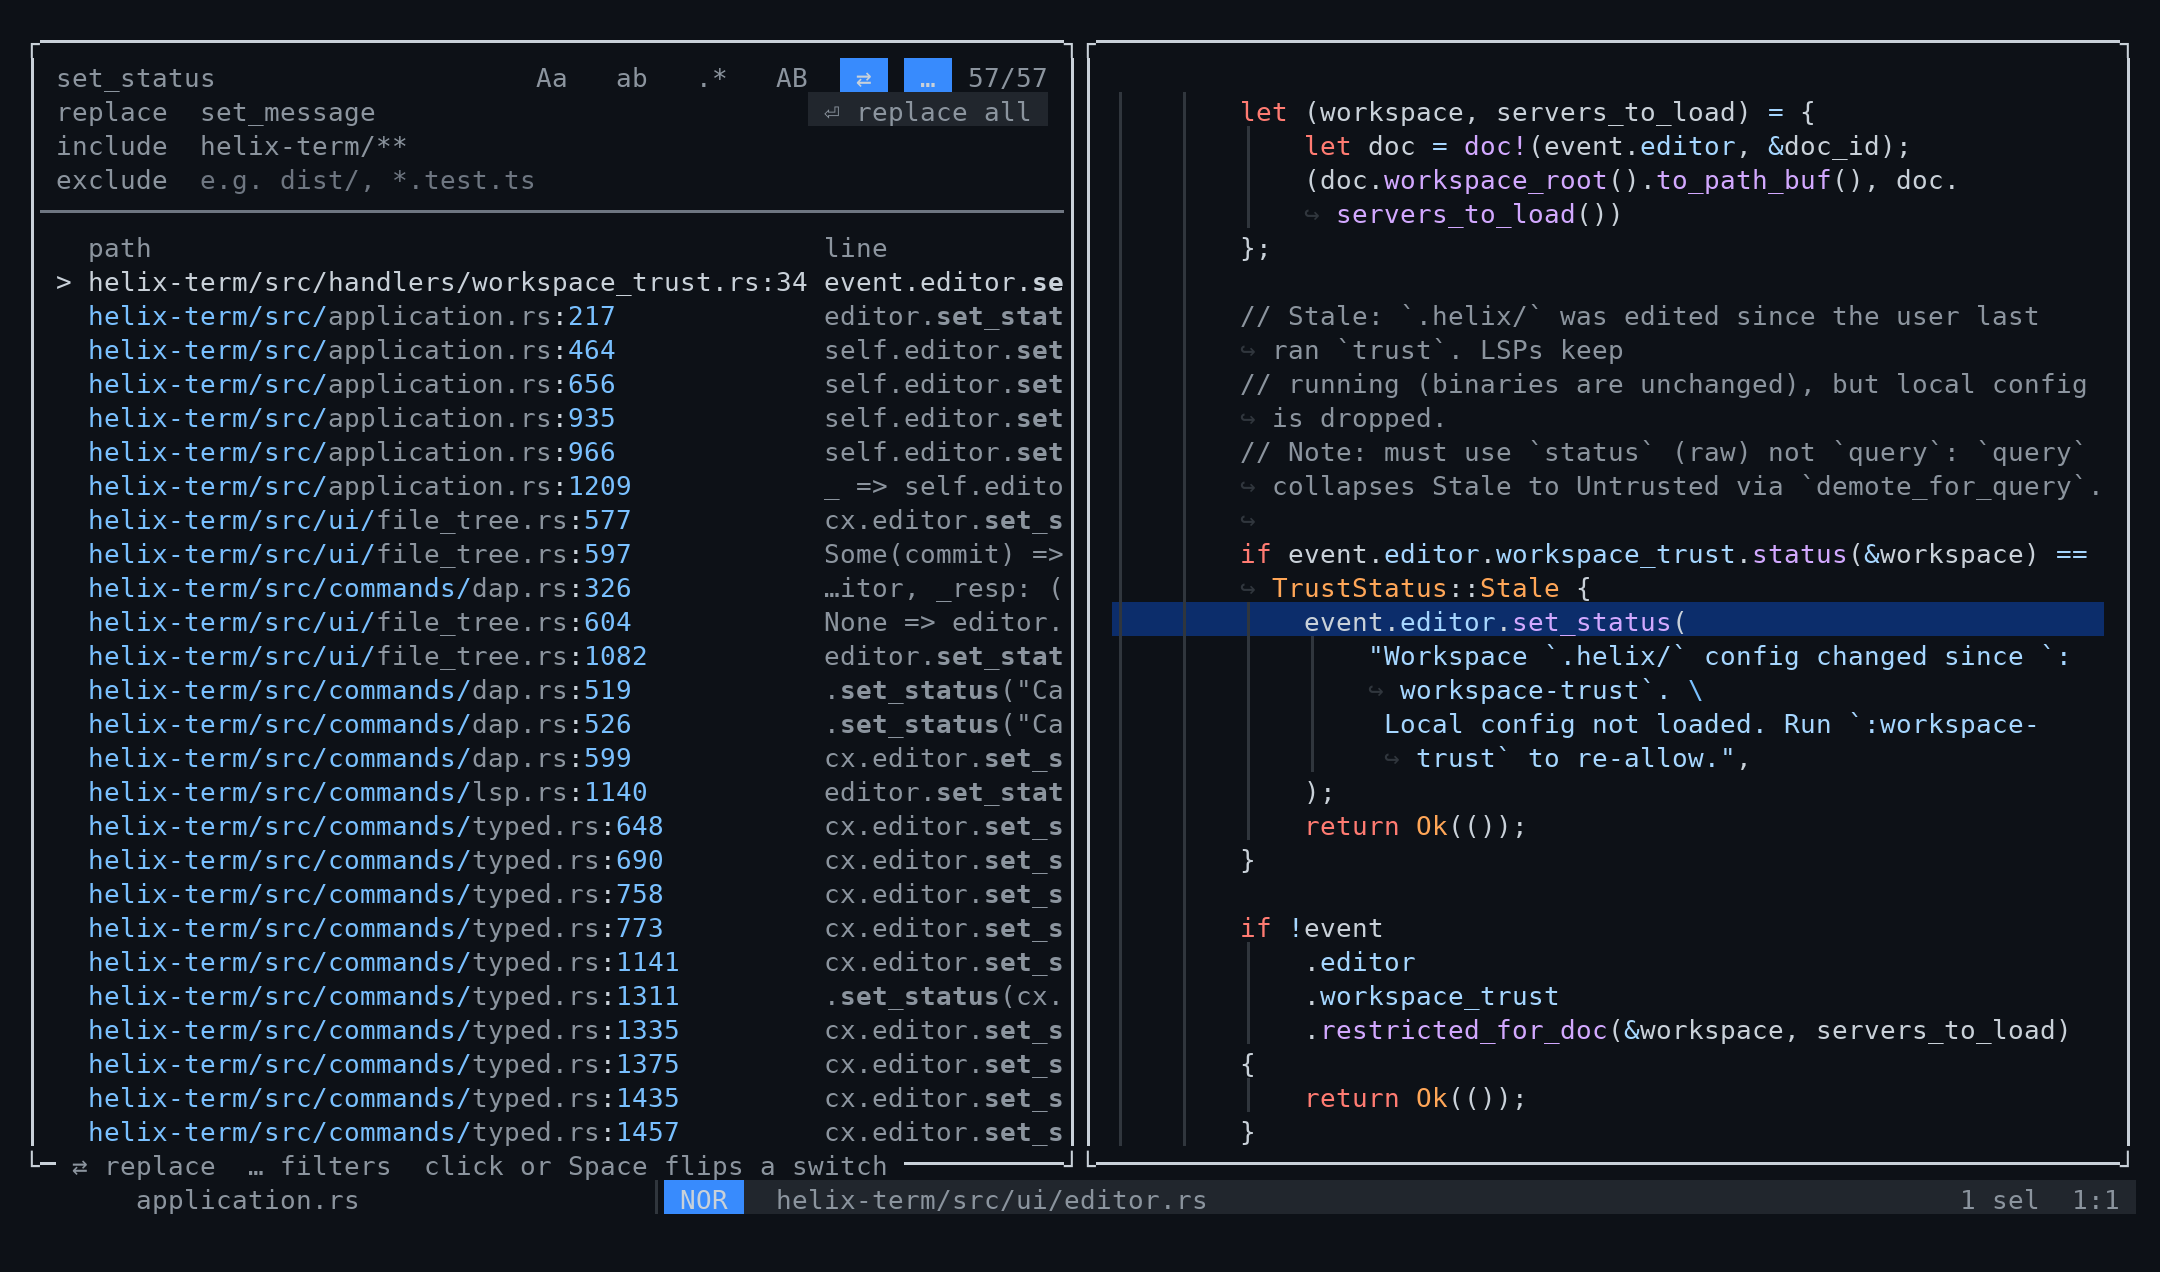
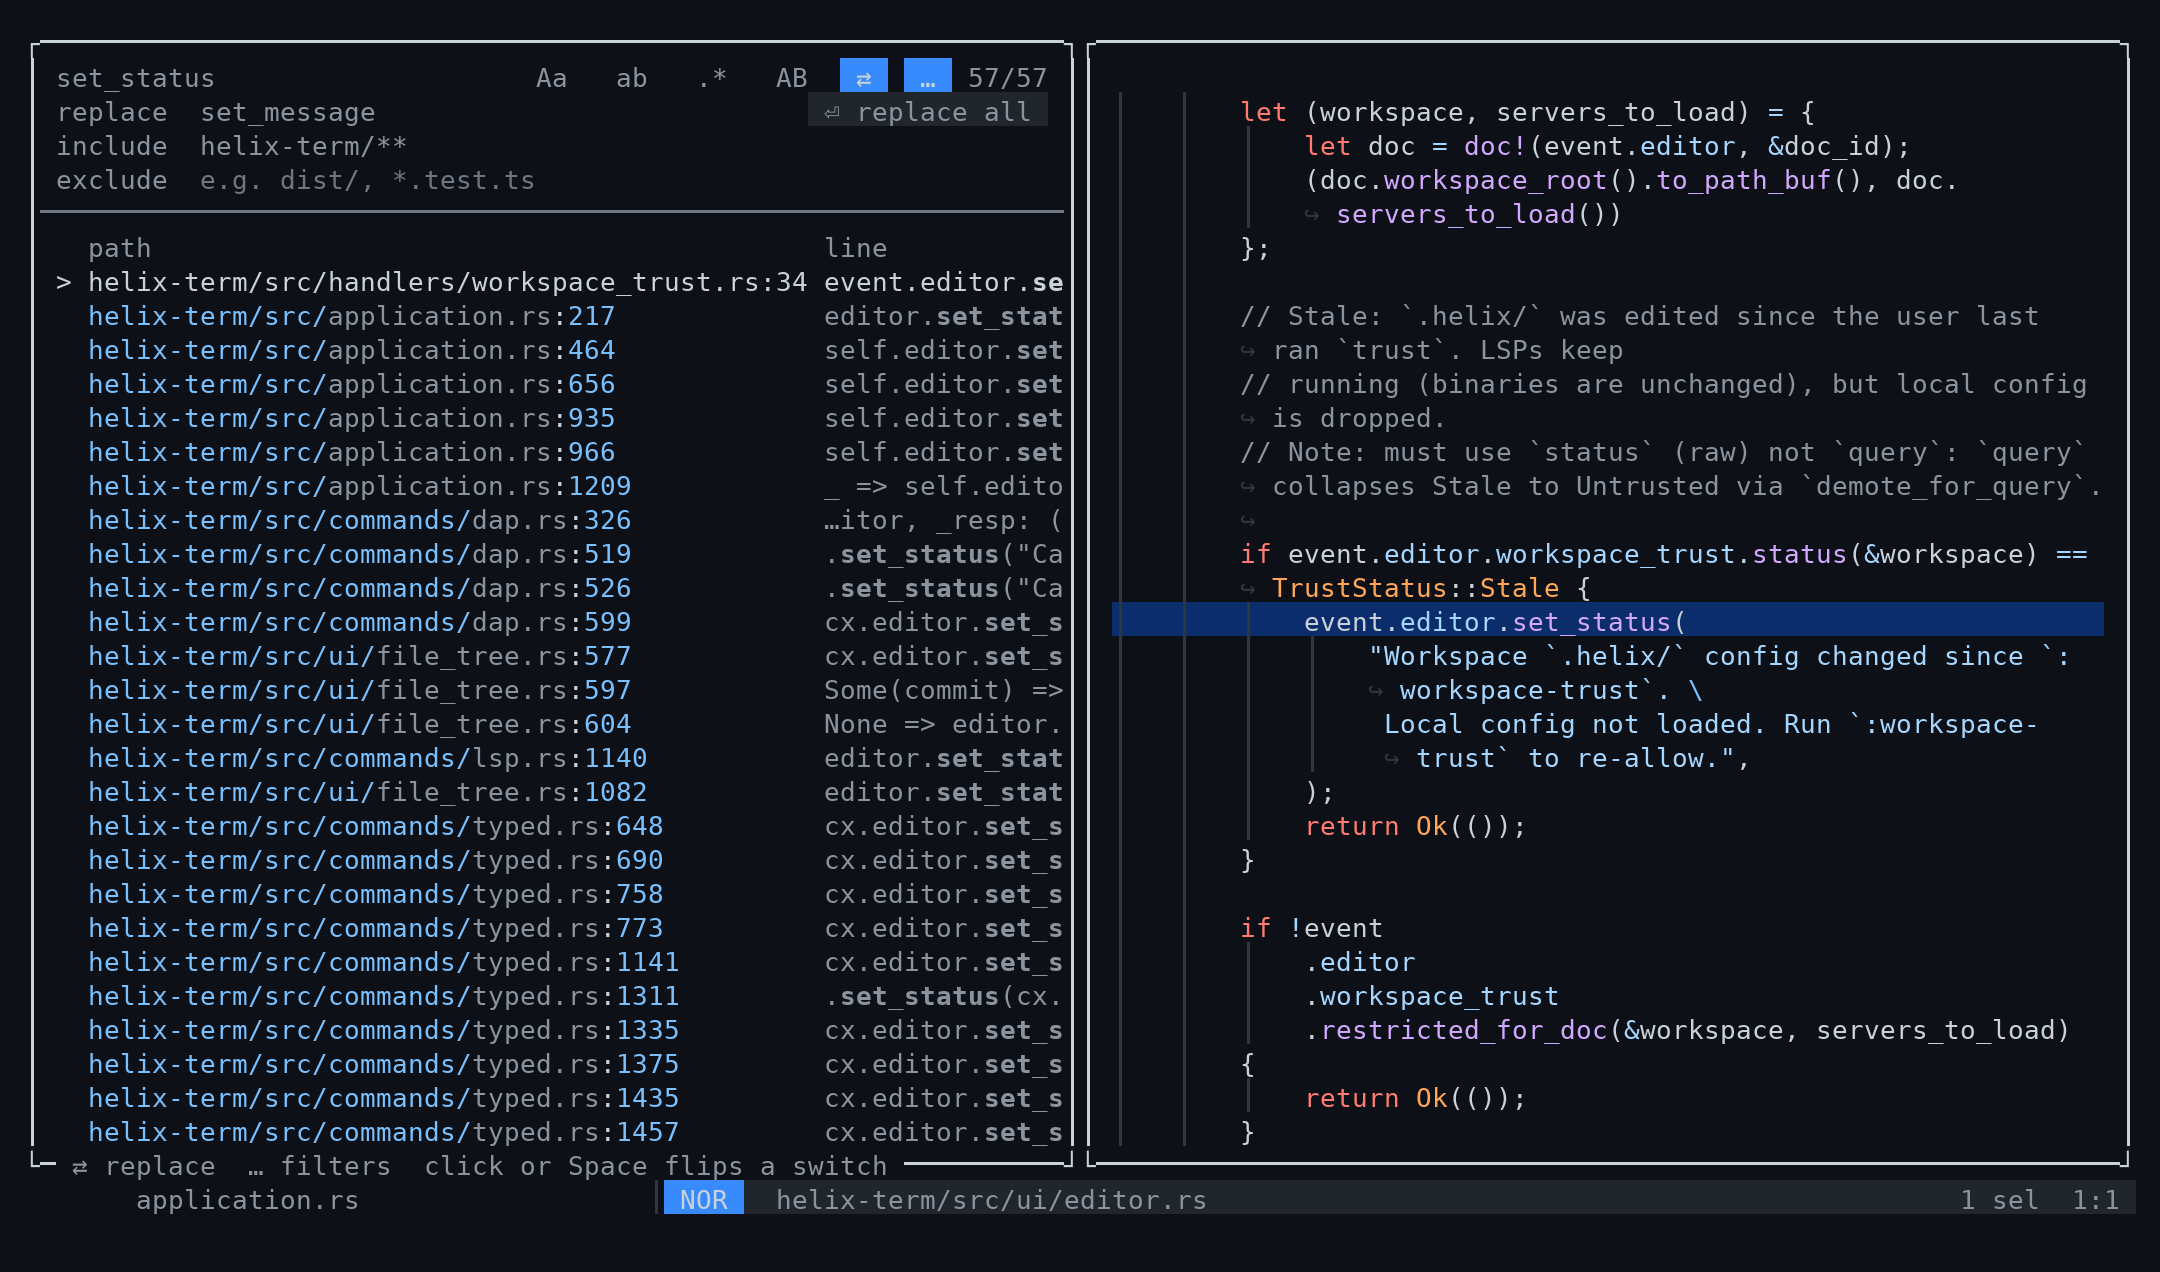
readme: the git picture shows the history in the sidebar
The picture showed one commit's files; the list of commits says what
the tab is at a glance. The scene steps into a commit, so the editor
holds its diff, and back out to the list, the cursor left on it.

diff --git a/README.md b/README.md
@@ -51,7 +51,7 @@ editor shows the diff of whatever the cursor is on: the whole commit, a
 directory, one file. `Esc` goes back. `Space H` narrows it to the current
 file's history, following renames.
 
-![Browsing a commit: its files in the sidebar, the diff of the one under the cursor on the right](fork/screenshots/commits.png)
+![The history in the sidebar, the diff of the selected commit on the right](fork/screenshots/commits.png)
 
 ### Who changed this line
 
